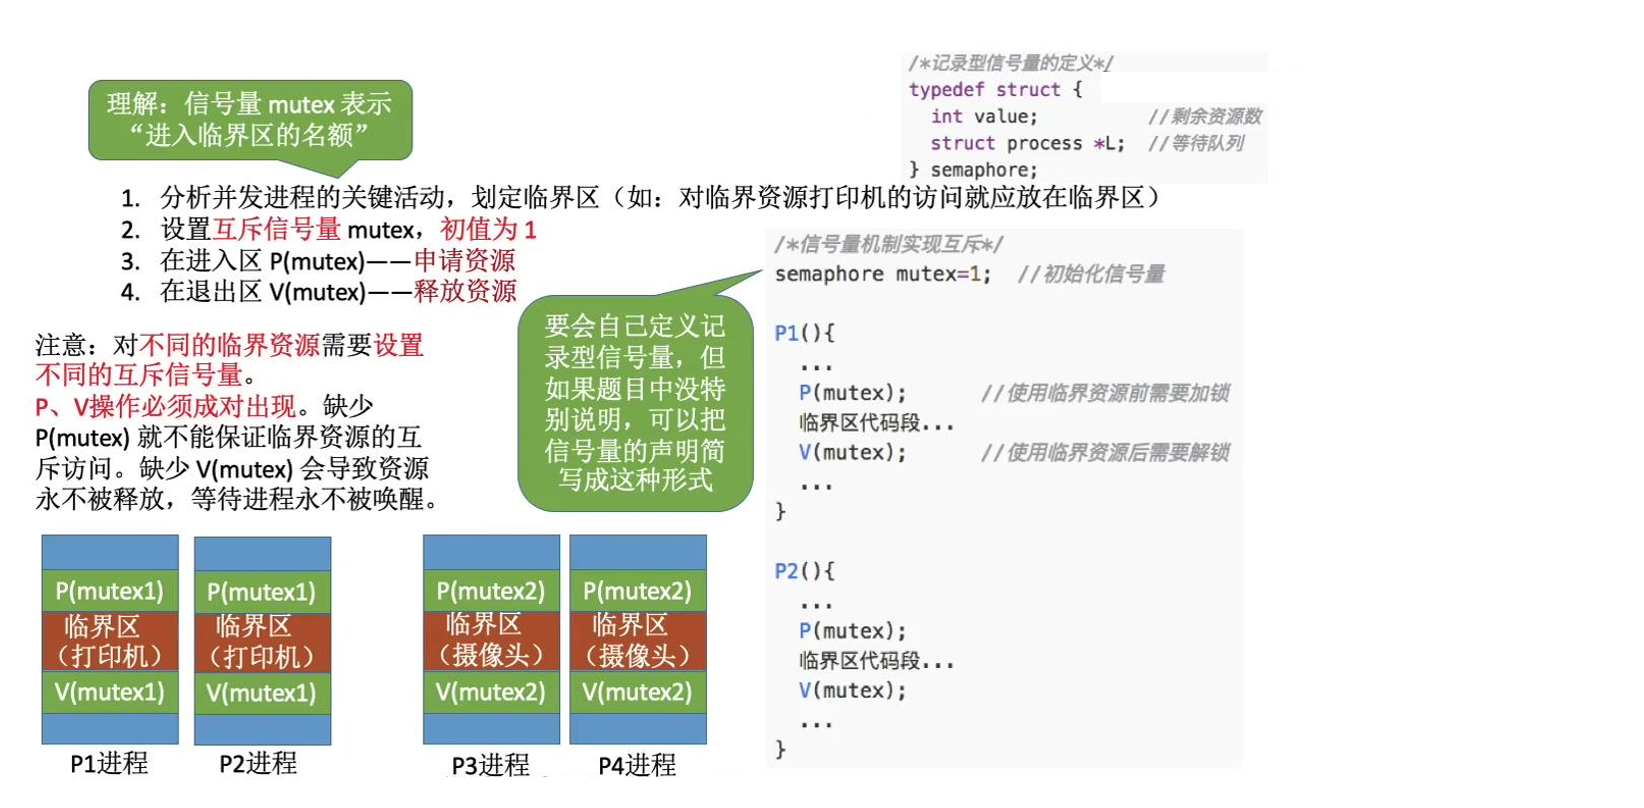
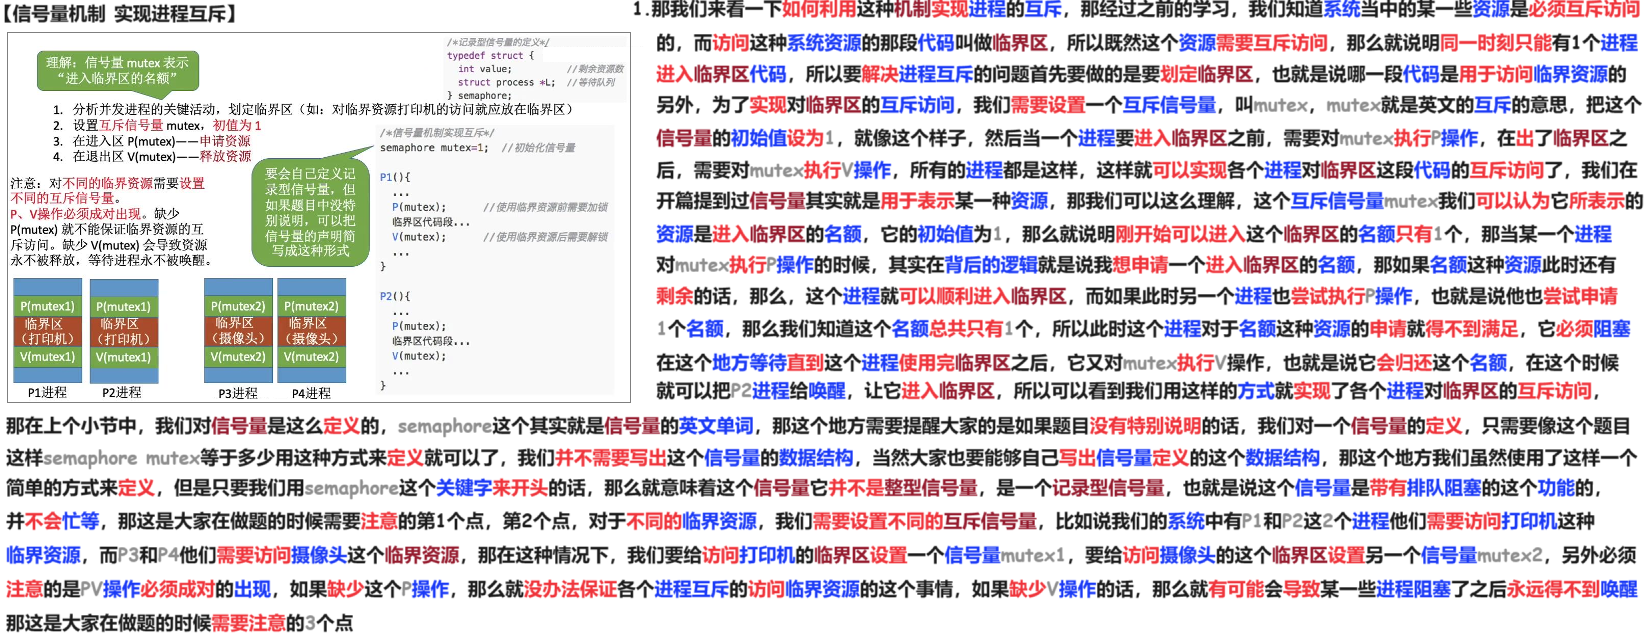
240505

diff --git a/01 初试/01 OS/02 24 25 王道/01 基础/02 进程 线程/03 同步 互斥/06 信号量机制 实现 进程互斥 同步 前驱关系 240505/02 Doc.md b/01 初试/01 OS/02 24 25 王道/01 基础/02 进程 线程/03 同步 互斥/06 信号量机制 实现 进程互斥 同步 前驱关系 240505/02 Doc.md
@@ -9,3 +9,10 @@
 
 
 # 02 信号量机制 实现进程互斥
+
+<img src="https://cvp.oss-cn-shanghai.aliyuncs.com/picgo/202405051459359.png" alt="image-20240505145946153" style="zoom:50%;" />
+
+
+
+# 03 信号量机制 实现进程同步
+
